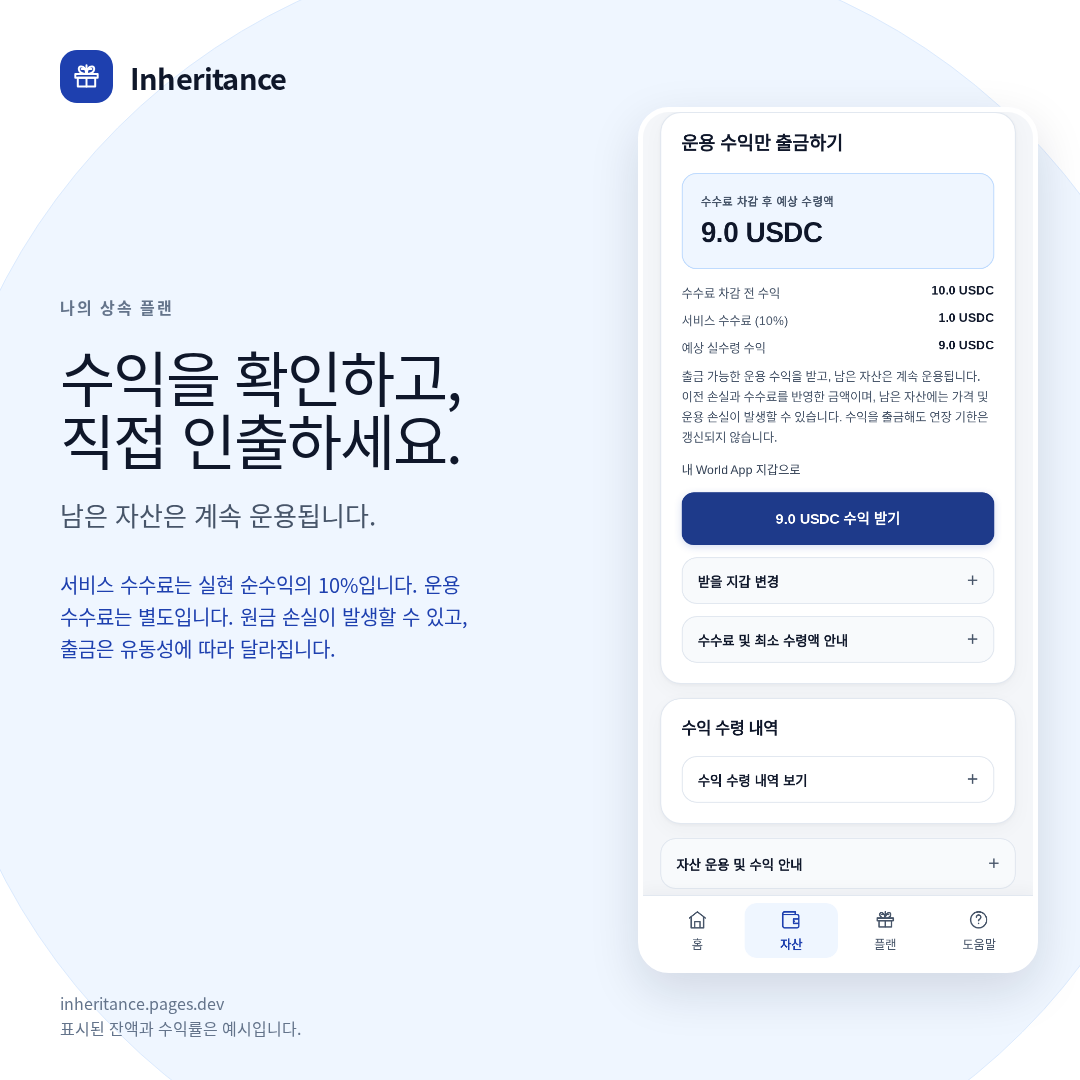
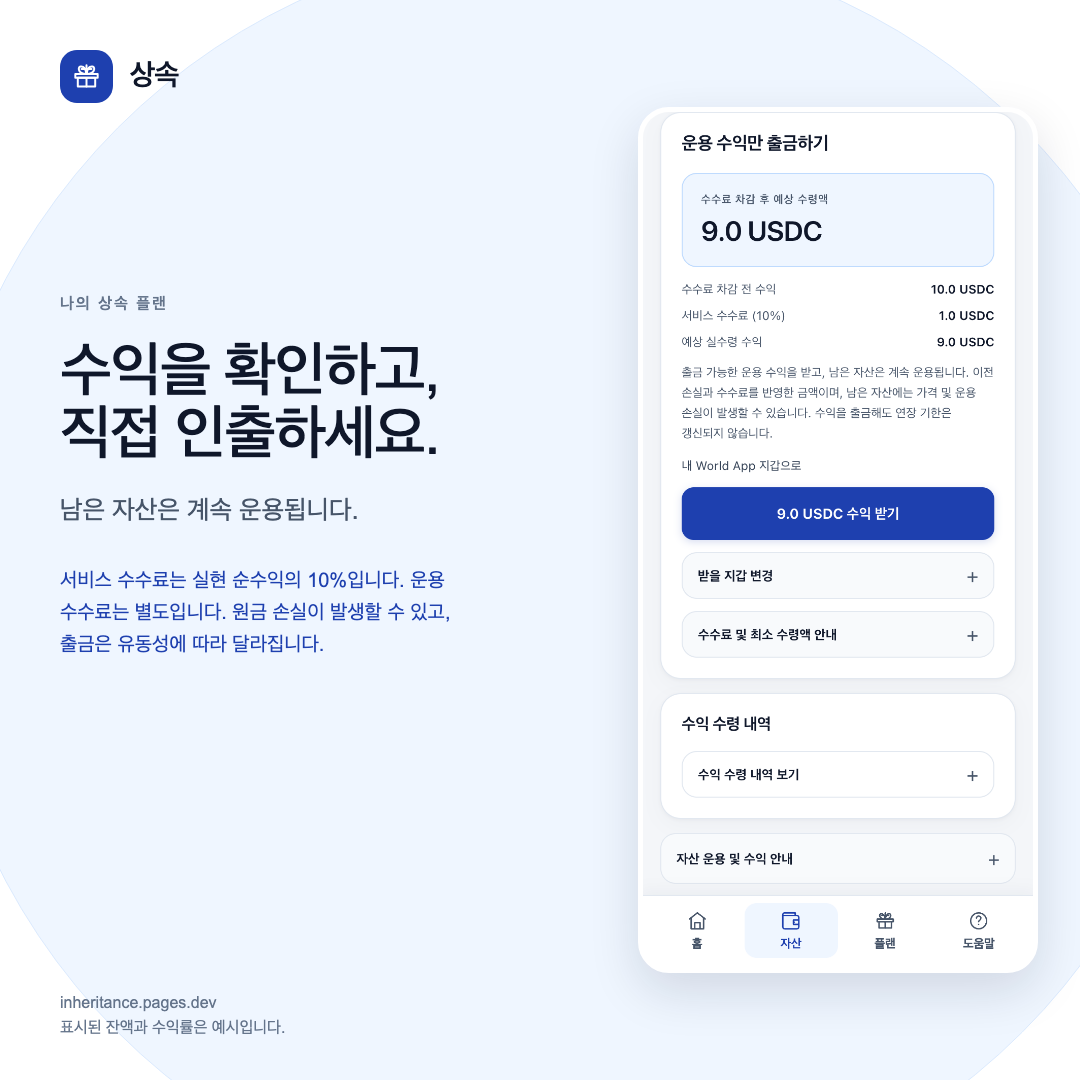
Use 상속 as the Korean app name

diff --git a/app/public/yield-terms.html b/app/public/yield-terms.html
@@ -16,17 +16,17 @@
 <h2>Risks</h2><p>Deposited principal can be lost. Contract failures, bad debt, oracle failure, allocation changes, token-price changes and insufficient liquidity can cause partial or total loss or delayed access. USDC can lose its dollar peg or be subject to issuer restrictions; USDC is not a bank deposit. A receipt quote and a displayed rate do not guarantee value or liquidity. Protocol audits do not audit this integration. This integration has no independent third-party security audit.</p>
 <h2>Your choices and transaction costs</h2><p>For a new plan, required asset-contract creation and the chosen deposits are batched into one wallet request after your review. Funds move only when you approve and the transaction executes. Additional deposits and owner withdrawals also require your wallet approval. Existing WLD vaults are not converted or migrated automatically. You can manage one current vault per supported factory; each has its own balance, heir and countdown. The operator pays automated inheritance execution gas from a dedicated ETH wallet. World App may charge a network fee in WLD when gas sponsorship is unavailable. Vault creation, additional deposits and withdrawals can each incur this cost, separately from service and strategy fees. Reusing a vault does not guarantee free transactions. Review the exact quote in World App before approving; opening the approval screen does not transfer funds. Monitoring and automation are best-effort and can be delayed by funding, network or service availability.</p>
 <p><a href="https://docs.morpho.org/learn/resources/risks/" target="_blank" rel="noreferrer">Morpho risk information ↗</a></p><p>Support: <a href="mailto:daviswhistle@naver.com">daviswhistle@naver.com</a></p>
-</main><template id="legal-ko"><nav><a href="/">← Inheritance</a><a href="/terms.html">이용약관</a></nav><h1>운용 약관</h1><p class="muted">2026년 11월 4일 업데이트 · 운영자 Daviswhistle</p>
+</main><template id="legal-ko"><nav><a href="/">← 상속</a><a href="/terms.html">이용약관</a></nav><h1>운용 약관</h1><p class="muted">2026년 11월 4일 업데이트 · 운영자 Daviswhistle</p>
 <p>새 WLD·USDC 플랜에서 기본으로 사용하는 Morpho 운용에 적용됩니다. 예치할 금액, 수령인과 연장 주기를 정하면 앱이 자산별 계약을 함께 관리합니다. 기존 기본 보관형 WLD 플랜에는 <a href="/terms.html">일반 이용약관</a>이 적용됩니다.</p>
 <h2>자산 운용 방식</h2><p>WLD는 Morpho의 Re7 WLD에, World Chain USDC는 Re7 USDC에 맡깁니다. USDC 원금과 수익은 USDC로 유지되며 별도 보상은 WLD입니다. 앱이 두 통화를 서로 바꾸지는 않습니다. 운용 대상, 서비스 수수료와 그 수령인은 계약 배포 때 고정됩니다. 앱의 계약에는 관리자, 업그레이드나 운용 대상 변경 권한이 없습니다. Morpho의 운용 계약에는 별도의 관리·자산 배분·수수료 위험이 있습니다.</p>
-<h2>Inheritance 서비스 수수료</h2><p>원금이나 정기 관리에 대한 서비스 수수료는 없습니다. WLD·USDC로 찾을 때는 운용 비용을 반영한 뒤 실현된 수익의 10%를 받습니다. 투자 자산을 나타내는 토큰(예치 지분)으로 찾으면 해당 토큰의 평가 금액으로 수익을 계산하고 수수료도 토큰으로 받습니다. 평가 금액 조회에 실패하면 그 지분 출금의 서비스 수수료는 면제됩니다. 맡긴 원금과 직접 보내온 일반 자산·투자 토큰에는 수수료를 부과하지 않습니다. 수수료를 낸 뒤 손실이 생겨도 이전 수수료는 환불하지 않습니다.</p>
+<h2>앱 서비스 수수료</h2><p>원금이나 정기 관리에 대한 서비스 수수료는 없습니다. WLD·USDC로 찾을 때는 운용 비용을 반영한 뒤 실현된 수익의 10%를 받습니다. 투자 자산을 나타내는 토큰(예치 지분)으로 찾으면 해당 토큰의 평가 금액으로 수익을 계산하고 수수료도 토큰으로 받습니다. 평가 금액 조회에 실패하면 그 지분 출금의 서비스 수수료는 면제됩니다. 맡긴 원금과 직접 보내온 일반 자산·투자 토큰에는 수수료를 부과하지 않습니다. 수수료를 낸 뒤 손실이 생겨도 이전 수수료는 환불하지 않습니다.</p>
 <p>USDC와 WLD는 가격 환산 없이 따로 계산합니다. USDC의 실현 손실은 이후 USDC 수익에서 먼저 메운 뒤 수수료를 계산합니다. USDC 플랜에서 공식 보상으로 받은 WLD는 WLD 원금이 없는 별도 보상으로, 지급할 때 10% 수수료가 적용됩니다. USDC 손실로 WLD 보상 수수료를 줄이지 않습니다. 예를 들어 100 USDC를 맡겨 110 USDC로 찾으면 1 USDC, WLD 보상 10 WLD를 받으면 1 WLD가 수수료입니다. 직접 입금된 일반 WLD에는 보상 수수료가 없습니다.</p>
 <p>WLD 플랜의 보상은 추가 원금으로 계산하지 않고 다시 운용할 수 있습니다. 남은 원금과 이전 WLD 실현 손실을 반영해 수수료를 계산합니다. 일부만 찾으면 원금과 수익도 비례 배분합니다. 투자 토큰을 지갑으로 옮길 때 서비스 수수료를 정산했다면 나중에 지갑에서 WLD·USDC로 찾을 때 다시 받지 않습니다.</p>
-<h2>운용사 수수료와 표시 수익률</h2><p>Re7은 Morpho 자산 운용에 별도의 성과 수수료를 받으며 요율과 자산 배분을 바꿀 수 있습니다. 앱은 예치 전에 계약에서 현재 요율을 조회합니다. Inheritance 서비스 수수료는 그 운용 비용을 반영한 뒤 추가로 적용됩니다. 표시된 대출 수익률과 일반 WLD 보상 수익률은 조회 시점의 연 환산 수치이며 서비스 수수료 차감 전입니다. 보상 자격, 환산 가치, 자료 출처와 보상 종료일은 바뀔 수 있습니다. 조회 실패나 오래된 자료는 수익률을 숨기며 거래를 막지는 않습니다. 연 환산 보상률이 1년 동안의 지급을 약속하는 것은 아닙니다.</p>
+<h2>운용사 수수료와 표시 수익률</h2><p>Re7은 Morpho 자산 운용에 별도의 성과 수수료를 받으며 요율과 자산 배분을 바꿀 수 있습니다. 앱은 예치 전에 계약에서 현재 요율을 조회합니다. 앱 서비스 수수료는 그 운용 비용을 반영한 뒤 추가로 적용됩니다. 표시된 대출 수익률과 일반 WLD 보상 수익률은 조회 시점의 연 환산 수치이며 서비스 수수료 차감 전입니다. 보상 자격, 환산 가치, 자료 출처와 보상 종료일은 바뀔 수 있습니다. 조회 실패나 오래된 자료는 수익률을 숨기며 거래를 막지는 않습니다. 연 환산 보상률이 1년 동안의 지급을 약속하는 것은 아닙니다.</p>
 <h2>WLD 보상</h2><p>보상 참여는 보장되지 않습니다. World App의 사람 인증 추가 보상은 개인 플랜 계약에 자동 적용되지 않으며 일반 수익률 표시에도 포함하지 않습니다. 공식 Merkl 배포처에서 보상을 확정해야 수령할 수 있습니다. 보상 조회 API가 토큰, 지급 계약이나 받을 사람을 선택하지는 못합니다.</p><p>진행 중인 WLD 플랜은 받은 WLD 보상을 다시 운용합니다. USDC 플랜의 WLD 보상은 따로 보관합니다. 소유자는 보상 지급 내역이 확인된 뒤 별도로 출금하거나 USDC 전액 출금과 함께 받을 수 있습니다. USDC 일부 출금이나 투자 토큰 이동만으로는 WLD가 옮겨지지 않습니다. 보상을 받아도 기한은 바뀌지 않습니다. 허용된 외부 서비스가 전달한 보상도 같은 방식으로 계산합니다.</p><p>상속이 끝난 뒤 새로 받은 공식 WLD 보상은 수수료 정산 후 이미 정해진 수령인에게 지급되며 원래 소유자는 회수할 수 없습니다. 빈 플랜을 닫아도 계약 기록은 남아 늦게 확정된 보상을 받을 수 있습니다. 플랜 링크를 보관하세요.</p>
 <h2>수익만 따로 받기</h2><p>지원하는 새 계약은 기록된 상속 원금을 인출하지 않고 받을 수 있는 운용 수익만 따로 받을 수 있습니다. 남은 원금 기준과 이전 실현 손실의 회복분을 보호하고, 실제로 실현된 수익에 10%를 부과합니다. 수익을 받아도 기한이나 받을 사람은 바뀌지 않습니다. 예상 금액은 현재 투자 가치와 출금 가능한 자금에 따라 달라집니다. 남은 원금의 가치 보장은 아닙니다. 기존 계약에는 원래의 출금 기능이 그대로 적용됩니다.</p>
 <h2>출금과 상속 수령</h2><p>WLD·USDC 출금에는 Morpho에 충분한 자금이 있어야 합니다. 부족하면 소유자가 투자 토큰을 지갑으로 옮겨 나중에 출금할 수 있습니다. 기한이 지나면 지정된 사람이 수령을 신청하고 7일간 기다립니다. 지급 전까지 소유자가 기한을 연장하면 신청이 취소됩니다.</p><p>상속 지급은 WLD·USDC 출금을 먼저 시도하고, 실패하면 투자 토큰을 지급합니다. 운용하지 않은 자산도 지정된 사람이 받으며 USDC 플랜의 별도 WLD 보상에는 보상 수수료가 적용됩니다. WLD는 아래의 정산 절차에 따라 지급이 늦어질 수 있습니다. 투자 토큰을 받았다는 것이 원금이나 즉시 출금을 보장하지는 않습니다. 출금할 자금이 일부 있어도 거래 실행 비용 한도 때문에 투자 토큰으로 지급될 수 있습니다.</p>
 <p>공식 보상 지급 내역을 조회할 수 없으면 이를 지원하는 계약은 운용 중인 자산을 먼저 지급하고 WLD는 정산할 수 있을 때까지 보관할 수 있습니다. WLD 지급을 보류한 채 상속이 실행되면 정산 전까지 계약에 보관되는 모든 WLD는 그동안 들어온 일반 송금분을 포함해 이미 정해진 상속인에게 귀속되며 원래 소유자는 회수할 수 없습니다. 보상 수수료는 실제 수령한 공식 보상에만 적용되며 일반 송금분에는 부과하지 않습니다. 운용 중인 자산을 받았더라도 남은 WLD의 정산까지 끝난 것은 아닙니다. 상속 뒤 보류된 WLD는 지급 내역 조회가 복구된 후 앱의 보상 정산 기능으로 지급을 완료할 수 있습니다.</p>
 <h2>위험</h2><p>원금을 잃을 수 있습니다. 계약 오류, 부실 대출, 가격 정보 오류, 운용 배분 변경, 토큰 가격 변동과 출금 자금 부족으로 일부 또는 전액 손실이나 출금 지연이 생길 수 있습니다. USDC는 달러 연동이 깨지거나 발행자 제한을 받을 수 있으며 은행 예금이 아닙니다. 표시 금액과 수익률은 가치나 출금 가능성을 보장하지 않습니다. Morpho 자체의 감사가 이 앱의 연동 계약까지 감사한 것은 아닙니다. 이 연동 계약은 독립적인 외부 보안 감사를 받지 않았습니다.</p>
 <h2>승인과 거래 비용</h2><p>새 플랜은 내용을 검토한 뒤 필요한 자산별 계약 생성과 입력한 금액의 예치를 하나의 지갑 요청에 묶어 처리합니다. 지갑에서 승인하고 거래가 실행되어야 자금이 이동합니다. 추가 예치와 소유자의 출금에도 지갑 승인이 필요합니다. 기존 WLD 플랜을 자동 전환하거나 이전하지 않습니다. 지원하는 각 생성 계약마다 현재 플랜 하나를 관리할 수 있고 자산별 잔액·수령인·확인 기한이 따로 있습니다.</p><p>자동 상속 지급의 실행 비용은 운영자의 전용 ETH 지갑에서 냅니다. World App이 비용을 지원하지 않는 이용자 거래에는 WLD 네트워크 수수료가 붙을 수 있습니다. 플랜 생성·자산 추가·출금 각각에 비용이 들 수 있으며 서비스 수수료와 운용 수수료에 더해집니다. 기존 플랜도 무료가 보장되지는 않습니다. 승인 전에 World App의 견적을 확인하세요. 승인 화면을 여는 것만으로 자금이 이동하지는 않습니다. 자동 지급·알림은 비용 잔액, 네트워크와 서비스 상태에 따라 지연되거나 중단될 수 있습니다.</p>
-<p><a href="https://docs.morpho.org/learn/resources/risks/" target="_blank" rel="noreferrer">Morpho 위험 안내 ↗</a></p><p>문의: <a href="mailto:daviswhistle@naver.com">daviswhistle@naver.com</a></p><footer><a href="/">Inheritance로 돌아가기</a></footer></template><script src="/legal-language.js"></script></body></html>
+<p><a href="https://docs.morpho.org/learn/resources/risks/" target="_blank" rel="noreferrer">Morpho 위험 안내 ↗</a></p><p>문의: <a href="mailto:daviswhistle@naver.com">daviswhistle@naver.com</a></p><footer><a href="/">상속 앱으로 돌아가기</a></footer></template><script src="/legal-language.js"></script></body></html>

diff --git a/app/src/locale.ts b/app/src/locale.ts
@@ -1,6 +1,7 @@
 export type Locale = "en" | "ko";
 
 const en = {
+  "brand.name": "Inheritance",
   "account.title": "Account",
   "account.signOut": "Sign out",
   "account.signOutHelp": "Sign out of Inheritance on this device. Your saved assets and inheritance settings stay in place.",
@@ -908,9 +909,10 @@ const en = {
 type LocaleKey = keyof typeof en;
 
 const ko: Record<LocaleKey, string> = {
+  "brand.name": "상속",
   "account.title": "계정",
   "account.signOut": "로그아웃",
-  "account.signOutHelp": "이 기기에서 Inheritance를 로그아웃합니다. 맡긴 자산과 상속 설정은 그대로 유지됩니다.",
+  "account.signOutHelp": "이 기기에서 로그아웃합니다. 맡긴 자산과 상속 설정은 그대로 유지됩니다.",
   "entry.connect.timeout": "로그인 응답이 늦어지고 있습니다. 화면을 새로고침한 뒤 다시 시도해 주세요. World App 승인창이 남아 있다면 먼저 닫아 주세요.",
   "entry.connect.retry": "새로고침하고 다시 시도",
   "failure.Expired": "기한이 지나 설정을 바꿀 수 없습니다. 홈에서 기한을 연장한 뒤 다시 시도해 주세요.",
@@ -981,7 +983,7 @@ const ko: Record<LocaleKey, string> = {
   "assets.ownWallet": "입금 지갑: 내 World App 지갑",
   "walletShares.outside": "상속 플랜 외 개별 보유 자산",
   "walletShares.partial": "현재 출금 가능한 금액만 먼저 출금되며, 나머지는 지갑 내 투자 자산으로 유지됩니다.",
-  "walletShares.fees": "이 출금에는 Inheritance 서비스 수수료가 부과되지 않습니다. World App에서 WLD 네트워크 수수료가 별도 청구될 수 있으니 다음 화면에서 확인 후 승인해 주세요.",
+  "walletShares.fees": "이 출금에는 서비스 수수료가 부과되지 않습니다. World App에서 WLD 네트워크 수수료가 별도 청구될 수 있으니 다음 화면에서 확인 후 승인해 주세요.",
   "walletShares.review": "내 지갑으로 {symbol} 출금",
   "walletShares.noCash": "현재 이 투자 자산을 {symbol}로 출금할 수 없습니다. 자산은 지갑에 그대로 보관되며 나중에 다시 확인할 수 있습니다.",
   "walletShares.failed": "투자 금액을 조회하지 못했습니다. 새로고침해 다시 확인해 주세요. 자금은 이동하지 않았습니다.",
@@ -1121,7 +1123,7 @@ const ko: Record<LocaleKey, string> = {
   "yield.rates.details": "수익률 계산 기준과 출처",
   "yield.rates.loading": "현재 수익률을 확인하고 있습니다…",
   "yield.rates.unavailable": "현재 수익률을 확인하지 못했습니다. 나중에 다시 확인해 주세요.",
-  "yield.rates.disclosure": "현재의 대출 수익과 WLD 보상을 1년 기준으로 환산한 수익률입니다. 고정 이자가 아니며 실제 수익은 달라질 수 있습니다. Inheritance 서비스 수수료 차감 전 수치입니다. Morpho에서 자산을 운용하는 Re7의 수수료는 예치 전 확인할 수 있습니다. 보상 자격은 달라질 수 있으며 World App의 사람 인증 추가 보상은 포함하지 않습니다.",
+  "yield.rates.disclosure": "현재의 대출 수익과 WLD 보상을 1년 기준으로 환산한 수익률입니다. 고정 이자가 아니며 실제 수익은 달라질 수 있습니다. 서비스 수수료 차감 전 수치입니다. Morpho에서 자산을 운용하는 Re7의 수수료는 예치 전 확인할 수 있습니다. 보상 자격은 달라질 수 있으며 World App의 사람 인증 추가 보상은 포함하지 않습니다.",
   "yield.rates.source": "{symbol} 수익률·보상 출처 보기 ↗",
   "yield.rewards.title": "운용에 따른 WLD 보상",
   "yield.rewards.loading": "이 자산의 보상을 확인하고 있습니다…",
@@ -1583,14 +1585,14 @@ const ko: Record<LocaleKey, string> = {
   "plan.review.feeRisk": "수익에 적용되는 수수료",
   "plan.review.yieldFee": "운용 수수료와 이전 손실을 반영한 뒤 실현된 수익의 10%. 원금에는 부과하지 않습니다.",
   "plan.review.feeExampleSummary": "{symbol} 수수료 계산 예시",
-  "plan.review.feeExampleLine": "{symbol}별 예시: 대출 수익 {gross} → Re7 전략 성과 수수료 {strategyFee} ({strategyPercent}%) → 남은 금액 {remaining} → Inheritance 서비스 수수료 {serviceFee} (남은 금액의 10%) → 예시 순수익 {net}.",
+  "plan.review.feeExampleLine": "{symbol}별 예시: 대출 수익 {gross} → Re7 전략 성과 수수료 {strategyFee} ({strategyPercent}%) → 남은 금액 {remaining} → 앱 서비스 수수료 {serviceFee} (남은 금액의 10%) → 예시 순수익 {net}.",
   "plan.review.feeExampleDisclosure": "대출 수익만 단순화해 보여 주는 예시입니다. 원금, 다른 손익, 보상, 네트워크 비용은 제외했으며 수익을 약속하지 않습니다.",
   "plan.review.basicFee": "선택한 기본 자산에는 서비스 수수료가 없습니다. 토큰 가치는 변할 수 있습니다. 아래 위험 내용을 확인하세요.",
   "plan.review.trigger": "살아 있는 동안에도 기한을 연장하지 않으면 지정한 사람에게 자산이 전달될 수 있습니다. 수령 시 사망 증명이나 법적 상속권 확인 절차는 없습니다.",
   "plan.review.missedTitle": "연장 주기가 지나면 어떻게 되나요?",
   "plan.review.missedBody": "지정된 수령인이 지급을 신청할 수 있습니다. 신청일로부터 7일이 지나야 수령할 수 있으며, 실제 지급 전에 소유자가 기한을 연장하면 신청이 취소됩니다.",
   "plan.risk.title": "예치 전 유의사항",
-  "plan.risk.yieldFee": "Inheritance 서비스 수수료: 운용 수수료를 반영하고 이전 손실을 회복한 뒤 실현된 수익의 10%입니다. 원금에는 부과하지 않습니다.",
+  "plan.risk.yieldFee": "앱 서비스 수수료: 운용 수수료를 반영하고 이전 손실을 회복한 뒤 실현된 수익의 10%입니다. 원금에는 부과하지 않습니다.",
   "plan.risk.basicFee": "선택한 기본 자산에는 서비스 수수료가 없습니다. 토큰 가치는 변할 수 있습니다.",
   "plan.risk.value": "예치한 원금에 손실이 발생할 수 있으며, Morpho 유동성이 부족한 경우 즉시 출금이 지연될 수 있습니다.",
   "plan.risk.inheritance": "기한이 지나면 지정한 수령인이 수령을 신청할 수 있습니다. 신청 7일 후부터 받을 수 있고, 실제 지급 전까지 내가 기한을 연장하면 신청은 취소됩니다.",
@@ -1699,7 +1701,7 @@ const ko: Record<LocaleKey, string> = {
   "history.retryError": "수령 내역을 불러오지 못했습니다. 내역 새로고침으로 다시 시도해 주세요.",
   "history.utc": "UTC",
   "help.feeTitle": "수수료는 어떻게 부과되나요?",
-  "help.feeDisclosure": "Morpho 운용사 Re7의 수익 수수료와 Inheritance 서비스 수수료가 있습니다. Inheritance는 운용 비용과 이전 손실을 반영한 뒤 실현된 수익의 10%를 받으며, 원금에는 서비스 수수료를 부과하지 않습니다. 네트워크 수수료는 별도로 발생할 수 있습니다. WLD와 USDC의 손익은 각각 계산합니다.",
+  "help.feeDisclosure": "Morpho 운용사 Re7의 수익 수수료와 앱 서비스 수수료가 있습니다. 앱은 운용 비용과 이전 손실을 반영한 뒤 실현된 수익의 10%를 받으며, 원금에는 서비스 수수료를 부과하지 않습니다. 네트워크 수수료는 별도로 발생할 수 있습니다. WLD와 USDC의 손익은 각각 계산합니다.",
   "help.feeTerms": "운용 약관 확인",
   "home.amount.yieldBeforeFee": "수수료 차감 후 예상 잔액",
   "assets.wallet": "내 World App 지갑 잔액",
@@ -1711,16 +1713,16 @@ const ko: Record<LocaleKey, string> = {
   "plan.review.depositTotal": "예치 원금",
   "plan.review.networkPending": "World App에서 확인 · WLD",
   "plan.review.feeIntro": "아래 두 수수료는 원금이 아닌 운용 수익에 순서대로 적용됩니다. 네트워크 비용은 별도입니다.",
-  "plan.review.serviceFee": "서비스 · Inheritance",
+  "plan.review.serviceFee": "앱 서비스 수수료",
   "plan.review.exampleAsset": "{symbol} · 계산 예시",
   "plan.review.exampleGross": "대출 수익",
   "plan.review.exampleStrategy": "Re7 운용 수수료 ({percent}%)",
   "plan.review.exampleRemaining": "운용 수수료 차감 후",
-  "plan.review.exampleService": "Inheritance 수수료 (남은 수익의 10%)",
+  "plan.review.exampleService": "앱 서비스 수수료 (남은 수익의 10%)",
   "plan.review.exampleNet": "최종 순수익",
   "fees.network.title": "네트워크 수수료",
   "help.networkTitle": "네트워크 수수료는 누가 내나요?",
-  "fees.network.body": "플랜 생성·자산 추가·출금에는 네트워크 수수료가 들 수 있습니다. 기존 플랜도 마찬가지입니다. World App이 이 비용을 지원하지 않으면 WLD로 별도 청구됩니다. 맡기는 금액에서 빼지 않고 더해서 내므로, 입력한 금액 전부가 예치됩니다. Inheritance 서비스 수수료와 Re7 운용 수수료도 각각 별도입니다.",
+  "fees.network.body": "플랜 생성·자산 추가·출금에는 네트워크 수수료가 들 수 있습니다. 기존 플랜도 마찬가지입니다. World App이 이 비용을 지원하지 않으면 WLD로 별도 청구됩니다. 맡기는 금액에서 빼지 않고 더해서 내므로, 입력한 금액 전부가 예치됩니다. 앱 서비스 수수료와 Re7 운용 수수료도 각각 별도입니다.",
   "fees.network.review": "다음 World App 승인 화면에서 정확한 거래 금액과 네트워크 수수료를 확인하세요. 화면을 여는 것만으로 자금이 전송되지 않으며, 승인 전 취소할 수 있습니다.",
   "plan.review.strategyFee": "운용사 · Re7",
   "plan.review.currentRates": "현재 참고 수익률",

diff --git a/app/public/privacy.html b/app/public/privacy.html
@@ -10,8 +10,8 @@
 <h2>What we do not collect</h2><ul><li>Your wallet private key, seed phrase or biometric data.</li><li>A copy of your full address book.</li><li>Custody of your WLD or USDC. Deposited funds are held by your on-chain vault or its fixed strategy.</li></ul><p>No World ID verification is required in this release.</p>
 <h2>Retention and requests</h2><p>Monitoring records remain while a vault is registered, including inactive records needed to avoid repeated alerts. You may ask us to stop monitoring or delete off-chain records by contacting support; we may ask for proof that you control the relevant wallet. If monitoring stops, automated execution and reminders for that vault may stop. Blockchain transactions and their public history cannot be deleted by us. Access or correction requests can also be sent to support. Do not send keys or seed phrases.</p>
 <h2>Contact</h2><p><a href="mailto:daviswhistle@naver.com">daviswhistle@naver.com</a> · <a href="https://github.com/Daviswhistle/Inheritance">Project source</a></p>
-<footer><a href="/">Back to Inheritance</a></footer></main><template id="legal-ko"><nav><a href="/">← Inheritance</a><a href="/terms.html">이용약관</a></nav><h1>개인정보 처리방침</h1><p class="muted">2026년 11월 4일 업데이트 · 운영자 Daviswhistle</p>
-<p>Inheritance는 World App에서 WLD·USDC의 전달 조건을 정하는 앱입니다. 이 문서는 앱과 알림 서비스가 사용하는 정보를 설명합니다. 사용자 이름이 없어도 공개 블록체인 기록으로 지갑 활동을 알아볼 수 있습니다.</p>
+<footer><a href="/">Back to Inheritance</a></footer></main><template id="legal-ko"><nav><a href="/">← 상속</a><a href="/terms.html">이용약관</a></nav><h1>개인정보 처리방침</h1><p class="muted">2026년 11월 4일 업데이트 · 운영자 Daviswhistle</p>
+<p>상속 앱은 World App에서 WLD·USDC의 전달 조건을 정하는 앱입니다. 이 문서는 앱과 알림 서비스가 사용하는 정보를 설명합니다. 사용자 이름이 없어도 공개 블록체인 기록으로 지갑 활동을 알아볼 수 있습니다.</p>
 <h2>정보를 사용하기 전의 선택</h2><p>로그인 화면에서 사용하는 지갑 정보를 안내하고 이 방침과 이용약관을 연결합니다. 동의 후 지갑 서명을 요청합니다. 로그인하지 않고도 도움말을 볼 수 있습니다. 로그인은 1시간 유지되며 저장 방식은 아래와 같습니다. 플랜을 만들 때는 최종 확인 화면에서 자동 지급·알림 등록과 기기 내 복구 정보 저장에 별도로 동의합니다. 연락처 선택과 알림 허용도 World App에서 각각 요청합니다. 다른 사람의 비공개 정보를 입력하지 마세요. 받을 지갑 주소와 블록체인 거래는 공개됩니다.</p>
 <h2>로그인과 기기 내 저장</h2><p>World App에서 지갑 주소와 제공 가능한 사용자 이름을 받습니다. 로그인 메시지와 서명을 확인해 1시간 후 만료되는 로그인 세션을 발급합니다. 세션은 현재 브라우저 탭에 저장하며 영구 로그인 쿠키로 저장하지 않습니다. 무작위 일회용 로그인 값의 해시를 최대 10분간 보관하고 사용하면 삭제합니다. 만료된 값과 요청 제한 기록은 주기적으로 삭제합니다.</p><p>짧은 시간에 로그인 요청이 몰리는 것을 제한하기 위해 접속 IP를 메모리에서만 사용해 비밀 키와 해당 분을 반영한 해시를 만듭니다. 데이터베이스에는 원래 IP 대신 이 해시와 요청 횟수만 저장하며 제한은 1분 후 만료됩니다. 로그인 서명은 계정 기록으로 보관하지 않습니다.</p><p>앱이 닫혀도 중단된 설정을 이어갈 수 있도록 이 기기의 브라우저 저장 공간에 받을 사람, 금액, 원래 계약 주소와 요청 진행 상황을 저장합니다. 완료를 확인하거나 수정 가능한 설정을 폐기하면 기록을 지웁니다. 이전 사본이 복원되지 않도록 빈 완료 표시만 남습니다. 앱·사이트 데이터를 지우면 복구 기록도 사라져 진행 중인 요청 확인이 어려워질 수 있습니다. 추가 입금도 지갑, 체인, 팩토리와 금고, 토큰, 정확한 금액, 요청 기준 블록과 반환된 거래 식별자를 이 기기에 저장합니다. 승인 전 입금 확인 화면에서 이 저장을 안내합니다. 완료나 거절·실패를 확인하면 지우며, 결과가 불확실하면 기록을 유지하고 확인 전까지 추가 입금을 막습니다. 잔액 증가만으로 입금 성공을 판단하지 않습니다. 사이트 데이터를 지우면 이 보호 기록도 사라집니다. 자산 탭에서 출금할 때도 지갑·체인·원래 팩토리와 금고·토큰·받을 지갑·요청 금액·최소 수령액·거래 식별자를 지갑 승인 전에 이 기기에 저장하며, 확인 화면에서 안내합니다. 원래 거래의 영수증이나 거절·실패를 확인할 때까지 다른 출금을 막고 자동으로 다시 보내지 않습니다. 앱·사이트 데이터를 지우면 이 보호 기록도 사라집니다. 수령인이나 연장 주기 변경의 복구 정보는 현재 탭에만 유지됩니다. 상속 종료·전액 회수 요청은 앱이 닫혀도 결과를 확인할 수 있도록 이 기기에 별도로 저장합니다. 지갑과 수령인 주소, 원래 계약 주소, 확인한 금액과 수수료, 거래 진행 상황이나 식별자가 포함됩니다. 요청 전 확인 화면에서 이 저장을 안내합니다. 원래 거래 결과를 확인하거나 거절·실패가 확정되면 삭제합니다. 결과가 불확실하면 확인을 위해 보관하며 자동으로 다시 요청하지 않습니다. 앱·사이트 데이터를 지우면 이 기록도 삭제됩니다. 받을 상속을 찾기 위한 공개 주소는 기기에 기억하고 다시 열 때 확인합니다.</p>
 <h2>이용 지역과 거주 국가</h2><p>새 플랜이나 예치를 요청하기 전에 Cloudflare가 제공한 접속 국가 코드를 조회합니다. 이 조회는 읽기 전용이며 이용자가 보낸 위치 헤더나 검색 매개변수를 사용하지 않습니다. 앱 서버는 이 조회의 IP를 저장하거나 데이터베이스에 기록하지 않습니다. Cloudflare는 자체 호스팅 운영에 따라 연결 정보를 처리할 수 있습니다.</p><p>직접 선택하고 확인한 거주 국가는 지갑별로 이 기기에 저장하며 서버로 보내지 않습니다. 거주 국가 확인과 대략적인 접속 위치를 함께 사용하지만 거주 증명, 확실한 VPN 탐지, 계약 직접 호출 차단, 고객확인(KYC)이나 제재 심사를 제공하지는 않습니다. 로그인과 기존 자산 관리는 계속 이용할 수 있습니다.</p>
@@ -20,4 +20,4 @@
 <h2>외부 서비스</h2><p>Cloudflare가 앱, 로그인과 알림 데이터베이스를 운영하는 기반을 제공합니다. 공개 World Chain RPC 서비스로 지갑과 계약을 조회합니다. 운용형 플랜의 WLD 보상과 증명 정보를 조회할 때 브라우저가 해당 공개 계약 주소를 Merkl에 보내며, 지갑 서명·사용자 이름·개인 키는 보내지 않습니다. World App은 자체 정책에 따라 지갑 요청, 사용자 이름, 거래 상태와 알림 요청을 처리합니다. 호스팅 제공자는 연결 정보와 운영 로그를 처리할 수 있습니다. 이 버전에는 광고 추적기나 분석 도구가 없습니다.</p>
 <h2>수집하거나 보관하지 않는 것</h2><ul><li>지갑 개인 키, 시드 문구, 생체인증 정보</li><li>전체 주소록 사본</li><li>운영자에 의한 WLD·USDC 수탁: 자산은 블록체인 계약이나 정해진 운용 계약에 보관됩니다.</li></ul><p>이 버전은 World ID 인증을 요구하지 않습니다.</p>
 <h2>보관과 열람·삭제 요청</h2><p>플랜이 등록된 동안 알림 기록을 보관합니다. 중복 알림 방지에 필요한 비활성 기록도 포함됩니다. 지원 주소로 자동 지급·알림 중단이나 블록체인 외부 기록 삭제를 요청할 수 있습니다. 해당 지갑을 관리하는지 확인할 수 있습니다. 등록을 중단하면 자동 지급과 알림도 중단될 수 있습니다. 운영자는 블록체인의 거래와 공개 기록을 삭제할 수 없습니다. 정보 열람과 정정도 지원 주소로 요청하세요. 개인 키나 시드 문구는 보내지 마세요.</p>
-<h2>문의</h2><p><a href="mailto:daviswhistle@naver.com">daviswhistle@naver.com</a> · <a href="https://github.com/Daviswhistle/Inheritance">프로젝트 소스</a></p><footer><a href="/">Inheritance로 돌아가기</a></footer></template><script src="/legal-language.js"></script></body></html>
+<h2>문의</h2><p><a href="mailto:daviswhistle@naver.com">daviswhistle@naver.com</a> · <a href="https://github.com/Daviswhistle/Inheritance">프로젝트 소스</a></p><footer><a href="/">상속 앱으로 돌아가기</a></footer></template><script src="/legal-language.js"></script></body></html>

diff --git a/app/public/terms.html b/app/public/terms.html
@@ -8,9 +8,9 @@
 <h2>Fees and risks</h2><p>Basic WLD vaults charge no platform fee and take no share of an inheritance. New plans use configured Morpho routes by default, with explicit fee and risk consent. Their disclosed 10% positive-gain fee and lending risks follow the <a href="/yield-terms.html">yield vault terms</a>. Existing vaults are not converted automatically. World App may charge network fees in WLD when gas sponsorship is unavailable. Vault creation, additional deposits and withdrawals can each incur a network fee, separate from service or strategy fees. Review the exact quote in World App before approving; opening the approval screen does not transfer funds. Asset values can change, USDC can lose its peg or be subject to issuer restrictions, and smart contracts, wallets and infrastructure can fail. The code has been tested and reviewed internally; it has not received an independent third-party security audit. There is no guarantee of investment return, asset value, uninterrupted service or recovery. Consider these risks before depositing funds.</p>
 <h2>Service and your rights</h2><p>We may fix or discontinue the interface and off-chain monitoring. Existing on-chain contracts remain subject to their own immutable rules, and eligible actions can still be submitted through compatible tools. These terms do not remove consumer rights or other protections that cannot lawfully be excluded. We provide no legal, tax or investment advice. Contact a qualified adviser for your own circumstances.</p>
 <h2>Support</h2><p>Contact <a href="mailto:daviswhistle@naver.com">daviswhistle@naver.com</a> with the public vault address and transaction hash when available. Do not send keys or seed phrases. Contact support first if you have a service complaint; your statutory remedies remain available.</p>
-<footer><a href="/">Back to Inheritance</a></footer></main><template id="legal-ko"><nav><a href="/">← Inheritance</a><a href="/privacy.html">개인정보 처리방침</a></nav>
+<footer><a href="/">Back to Inheritance</a></footer></main><template id="legal-ko"><nav><a href="/">← 상속</a><a href="/privacy.html">개인정보 처리방침</a></nav>
 <h1>이용약관</h1><p class="muted">2026년 11월 4일 업데이트 · 운영자 Daviswhistle</p>
-<p>플랜을 만들거나 거래 기능을 이용하면 이 약관에 동의하고 <a href="/privacy.html">개인정보 처리방침</a>을 확인한 것으로 봅니다. Inheritance는 독립적으로 운영하는 앱이며 World가 운영하거나 보증하지 않습니다.</p>
+<p>플랜을 만들거나 거래 기능을 이용하면 이 약관에 동의하고 <a href="/privacy.html">개인정보 처리방침</a>을 확인한 것으로 봅니다. 상속 앱은 독립적으로 운영하는 앱이며 World가 운영하거나 보증하지 않습니다.</p>
 <div class="notice"><b>정한 조건에 따라 자산을 전달하는 서비스입니다.</b><p>법적 유언장을 대신하지 않습니다. 앱은 확인 기한과 지갑 승인을 기준으로 작동하며 사망, 신원, 법적 상속권 또는 의사결정 능력 상실을 확인하지 않습니다. 살아 있어도 기한을 넘기면 지정한 사람이 수령을 신청할 수 있습니다. 필요한 경우 별도의 법적 상속 준비를 하세요.</p></div>
 <h2>이용할 수 있는 지역</h2><p>새 플랜 만들기와 자산 추가는 한국 거주자가 한국에서 접속할 때만 공식 앱 화면에서 이용할 수 있습니다. Cloudflare가 확인한 접속 국가가 대한민국(KR)이어야 하고, 이용자가 한국 거주 사실을 별도로 확인해야 합니다. 과거 아르헨티나·콜롬비아 거주 확인으로는 새 요청을 할 수 없습니다.</p><p>접속 국가는 거주 증명이 아니며 VPN이나 통신 경로에 따라 달라질 수 있습니다. 거주지는 이용자가 직접 확인합니다. 이 제한은 변경할 수 없는 계약을 직접 호출하거나 다른 도구를 사용하는 것까지 막지는 않습니다. 신원 확인, 고객확인(KYC), 제재 대상 심사나 법규 준수를 보증하는 절차도 아닙니다. 기존 로그인, 자산 조회·관리·출금, 기한 연장, 설정 변경, 상속 수령과 중단된 요청 확인은 계속 이용할 수 있습니다.</p>
 <h2>상속 설정과 지급 절차</h2><ol><li>받을 사람의 지갑, 연장 기간, 맡길 WLD·USDC 금액을 정합니다. 내용을 검토하고 승인하면 필요한 자산별 계약 생성과 입력한 금액의 예치를 하나의 지갑 요청에 묶어 처리합니다. 자산별 계약은 하나의 플랜으로 함께 관리합니다.</li><li>홈의 ‘기한 연장하기’를 누르고 승인하면, 승인한 시점부터 설정한 기간이 새로 시작됩니다. 이 동작이 계약의 정기 확인(check-in)입니다. 받을 사람·연장 기간 변경과 출금은 계약 조건에 따릅니다. 기한이 지났다면 먼저 기한을 연장해야 소유자의 관리 기능을 다시 이용할 수 있습니다.</li><li>기한이 지나면 지정한 사람만 수령을 신청할 수 있습니다. 신청 후 7일간 기다립니다. 실제 지급 전까지 맡긴 사람이 기한을 연장하면 신청이 취소됩니다.</li><li>7일이 지난 뒤 등록된 새 플랜은 지정된 사람에게 자동 지급할 수 있습니다. 이 지급에는 받을 사람의 추가 서명이 필요하지 않습니다. 받을 사람이 World App에서 직접 수령할 수도 있습니다. 자동 지급을 지원하지 않는 이전 플랜은 직접 수령해야 합니다.</li></ol>
@@ -18,4 +18,4 @@
 <h2>이용자가 확인할 사항</h2><p>지갑에 접근할 수 있도록 관리하고, 승인 전에 받을 지갑 주소를 확인하세요. 사용자 이름으로 지정해도 실제로는 해당 지갑 주소를 사용합니다. 받을 사람에게 플랜을 알리고 기한 전에 연장해 주세요. 운영자는 키 복구, 완료된 지급 취소, 계약의 수령인 변경 또는 잘못 보낸 자금 회수를 할 수 없습니다. 이용자는 자금을 사용할 권한이 있어야 하며 적용되는 법률을 지켜야 합니다. 사기 등 불법적인 목적으로 이용할 수 없습니다.</p>
 <h2>수수료와 위험</h2><p>기본 보관형 WLD 플랜에는 플랫폼 수수료나 상속액에 대한 수수료가 없습니다. 새 플랜은 기본적으로 Morpho 운용을 사용하며 수수료·위험에 별도로 동의해야 합니다. 수익에 대한 10% 서비스 수수료와 운용 위험에는 <a href="/yield-terms.html">운용 약관</a>이 적용됩니다. 기존 플랜은 자동으로 운용형으로 바뀌지 않습니다.</p><p>World App이 네트워크 비용을 지원하지 않으면 WLD 수수료가 부과될 수 있습니다. 플랜 생성, 자산 추가, 출금 각각에 비용이 들 수 있으며 서비스 수수료·운용 수수료와 별도입니다. 승인 전에 World App의 견적을 확인하세요. 승인 화면을 여는 것만으로 자금이 이동하지는 않습니다.</p><p>자산 가치는 변할 수 있습니다. USDC는 달러와의 가치 연동이 깨지거나 발행자의 제한을 받을 수 있습니다. 스마트 계약, 지갑과 기반 서비스에도 오류가 생길 수 있습니다. 코드는 내부 검토와 테스트를 거쳤지만 독립적인 외부 보안 감사를 받지 않았습니다. 수익, 자산 가치, 서비스의 지속적인 이용이나 손실 복구를 보장하지 않습니다.</p>
 <h2>서비스와 이용자의 권리</h2><p>운영자는 앱 화면과 블록체인 외부의 자동 지급·알림 서비스를 수정하거나 중단할 수 있습니다. 기존 블록체인 계약에는 변경할 수 없는 원래 조건이 계속 적용되며 호환 도구로 가능한 작업을 요청할 수 있습니다. 이 약관은 법적으로 배제할 수 없는 소비자 권리와 보호를 제한하지 않습니다. 개인별 법률·세무·투자 자문을 제공하지 않으므로 필요한 경우 전문가에게 문의하세요.</p>
-<h2>문의</h2><p><a href="mailto:daviswhistle@naver.com">daviswhistle@naver.com</a>으로 문의하세요. 가능하면 공개된 플랜 주소와 거래 해시를 함께 알려주세요. 개인 키나 시드 문구는 보내지 마세요. 서비스 불만은 먼저 운영자에게 알려주시기 바라며, 법에서 정한 구제 수단은 그대로 이용할 수 있습니다.</p><footer><a href="/">Inheritance로 돌아가기</a></footer></template><script src="/legal-language.js"></script></body></html>
+<h2>문의</h2><p><a href="mailto:daviswhistle@naver.com">daviswhistle@naver.com</a>으로 문의하세요. 가능하면 공개된 플랜 주소와 거래 해시를 함께 알려주세요. 개인 키나 시드 문구는 보내지 마세요. 서비스 불만은 먼저 운영자에게 알려주시기 바라며, 법에서 정한 구제 수단은 그대로 이용할 수 있습니다.</p><footer><a href="/">상속 앱으로 돌아가기</a></footer></template><script src="/legal-language.js"></script></body></html>

diff --git a/app/src/App.tsx b/app/src/App.tsx
@@ -322,6 +322,8 @@ function createProvider(): ethers.JsonRpcProvider {
 
 export default function App() {
   const { t, locale } = useLocale();
+  const brandName = t("brand.name");
+  useEffect(() => { document.title = brandName; }, [brandName]);
   // ---- state
   const [provider, setProvider] = useState<ethers.JsonRpcProvider | null>(null);
   const navigationChosenFor = useRef("");
@@ -4778,7 +4780,7 @@ export default function App() {
             </section>}
 
             {inheritanceEmpty && <section className="savings-empty">
-              <span className="eyebrow">Inheritance</span><h2>{t("home.empty.title")}</h2>
+              <span className="eyebrow">{brandName}</span><h2>{t("home.empty.title")}</h2>
               <p>{t(activeOwnedPlans.length ? "home.empty.body" : "home.empty.noPlan")}</p>
               {nextCheckIn !== null && chainNow >= nextCheckIn && <p>{t("home.empty.deadline")}</p>}
               <Button variant="primary" onClick={() => { navigationChosenFor.current = account.toLowerCase(); setVault(ownVault); setLinkedVault(""); setShowPlanSetup(activeOwnedPlans.length === 0); setTab(activeOwnedPlans.length ? "money" : "inherit"); }}>{t(activeOwnedPlans.length ? "home.empty.action" : "journey.owner.restart")}</Button>

diff --git a/app/src/components/Icon.tsx b/app/src/components/Icon.tsx
@@ -1,4 +1,5 @@
 import type { CSSProperties } from "react";
+import { useLocale } from "@/locale-context";
 
 export type IconName = "vault" | "send" | "inherit" | "help" | "arrow" | "check" | "bell" | "heart" | "world" | "home" | "assets";
 
@@ -23,5 +24,6 @@ export function Icon({ name, size = 22, className = "", style }: { name: IconNam
 }
 
 export function Brand() {
-  return <div className="brand"><span className="brand-mark"><Icon name="inherit" size={23} /></span><span className="brand-name">Inheritance</span></div>;
+  const { t } = useLocale();
+  return <div className="brand"><span className="brand-mark"><Icon name="inherit" size={23} /></span><span className="brand-name">{t("brand.name")}</span></div>;
 }

diff --git a/app/public/legal-language.js b/app/public/legal-language.js
@@ -12,7 +12,7 @@
   const show = language => {
     main.innerHTML = language === 'ko' ? korean : english;
     document.documentElement.lang = language;
-    document.title = main.querySelector('h1').textContent + ' · Inheritance';
+    document.title = main.querySelector('h1').textContent + (language === 'ko' ? ' · 상속' : ' · Inheritance');
     document.querySelectorAll('[data-language]').forEach(button => {
       button.setAttribute('aria-pressed', String(button.dataset.language === language));
     });
